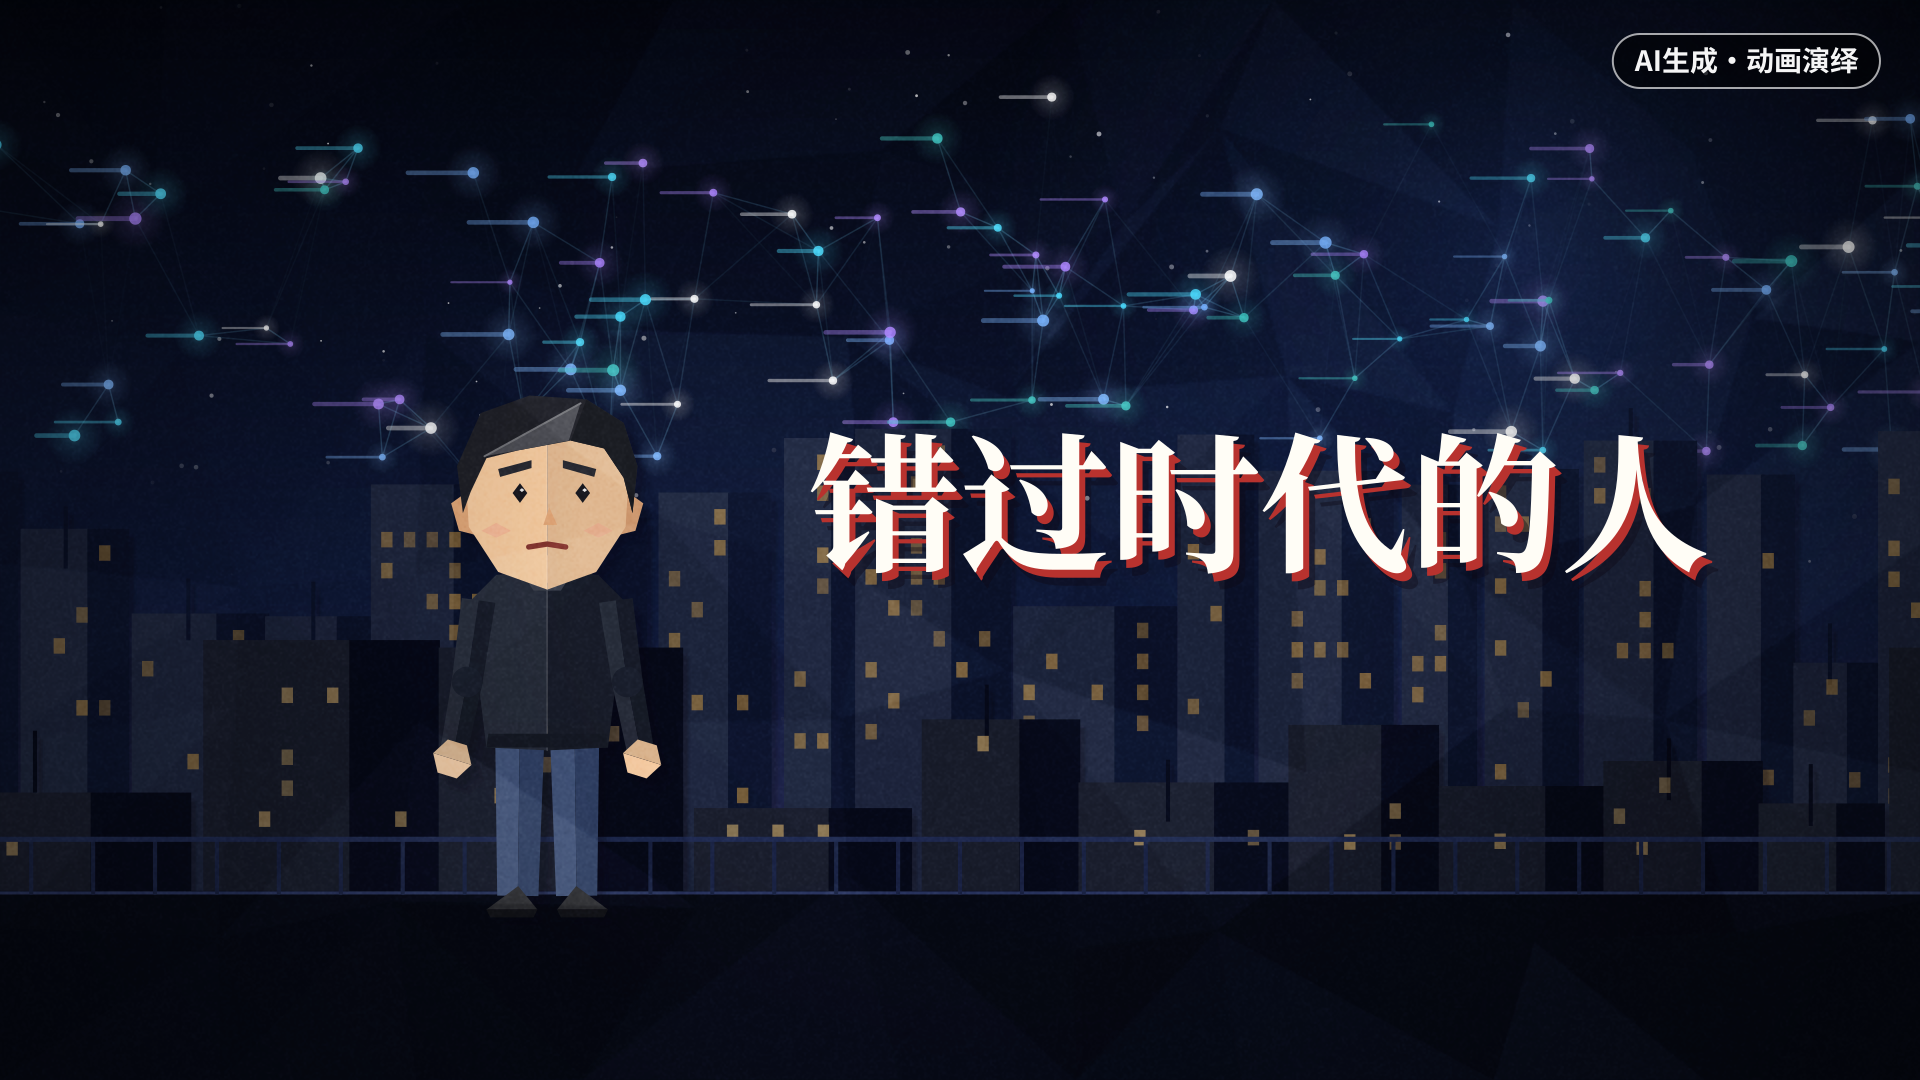
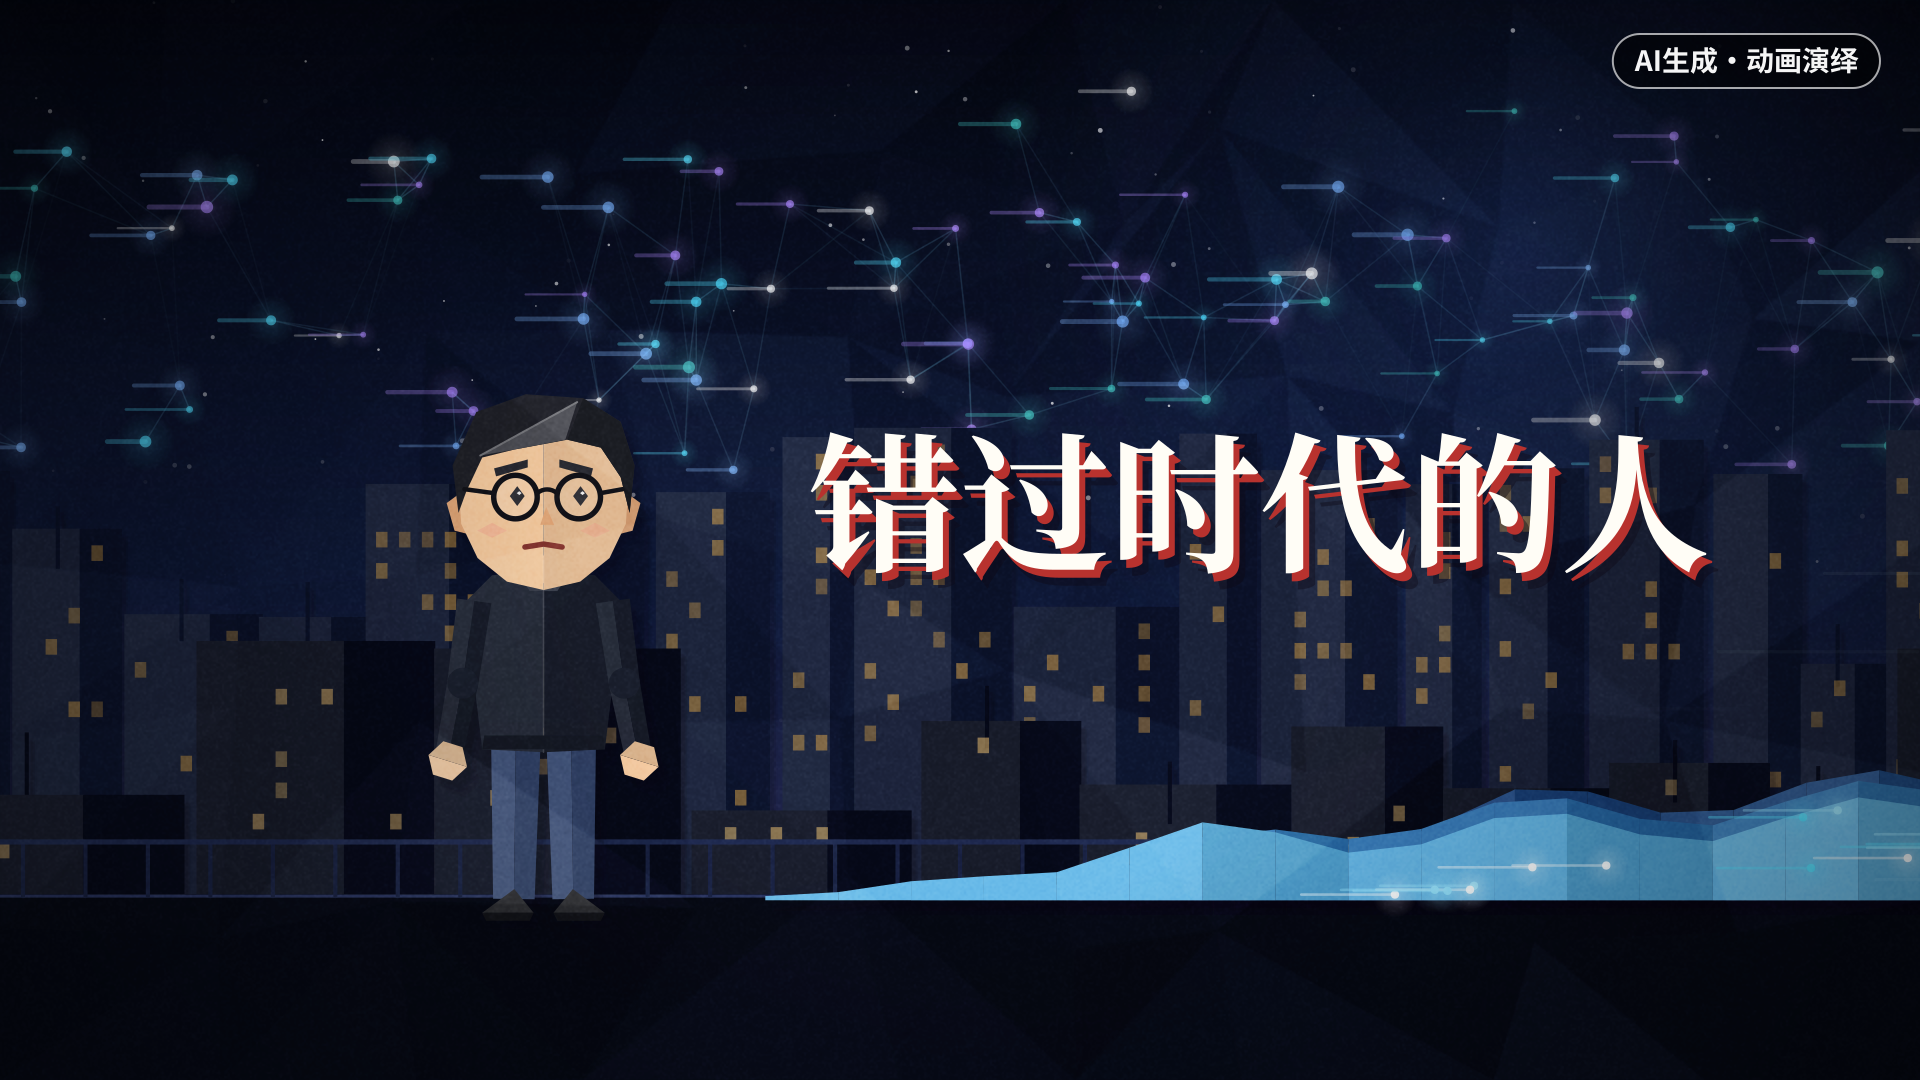
v6: taper the hook wave tail, update README and cover for the new character

diff --git a/video-leijun/scenes_a.py b/video-leijun/scenes_a.py
@@ -180,7 +180,7 @@ def _paper_wave(ctx, front, length, base, t):
             ys = []
             for x in xs:
                 u = clamp((x - (f0 - length)) / length)
-                h = 380 * hk * (0.22 + 0.78 * u ** 2.2) + 18 * math.sin(x * 0.02 + t * 6)
+                h = (380 * hk * (0.22 + 0.78 * u ** 2.2) + 18 * math.sin(x * 0.02 + t * 6)) * smooth(u / 0.18)
                 ys.append(base - h)
             for i in range(len(xs) - 1):
                 up = ys[i + 1] < ys[i]
@@ -207,7 +207,7 @@ def _paper_wave(ctx, front, length, base, t):
     for _ in range(60):
         u = rnd.random()
         x = front - u * length * 0.9
-        y = base - 380 * (0.22 + 0.78 * (1 - u) ** 2.2) * rnd.uniform(0.25, 0.9)
+        y = base - 380 * (0.22 + 0.78 * (1 - u) ** 2.2) * smooth((1 - u) / 0.18) * rnd.uniform(0.25, 0.9)
         c = rnd.choice(["#FFFFFF", "#9EE7FF", "#53E0FF"])
         glow(ctx, x, y, 22, c, 0.35)
         line(ctx, x - 90, y, x, y, c, 2.5, 0.45)

diff --git a/video-leijun/README.md b/video-leijun/README.md
@@ -1,13 +1,16 @@
 # 雷军 · 科普号单集（折纸风动画演绎）
 
-依据《雷军-创意脚本-定稿-2026-10-16.md》用纯代码渲染的动画短片工程，可随时重渲。
+依据《雷军-创意脚本-定稿-2026-10-16.md》用纯代码渲染的动画短片工程，可随时重渲。当前版本按
+`docs/雷军-Cursor改片指令-v6-2026-10-16.md`（上屏文字为文末「定稿剧本 v5」）修改。
 
-- 规格：1920×1080，16:9，30fps，H.264（High / yuv420p）+ AAC，时长 150.0 秒，无配音
+- 规格：1920×1080，16:9，30fps，H.264（High / yuv420p）+ AAC 48 kHz，时长 180.0 秒，无配音
+- 响度：整体 -14 LUFS（EBU R128），真峰值低于 -1 dBTP
 - 风格：折纸 / 纸艺。画面带折痕分面、纸纤维纹理、层叠纸片投影；字幕印在折纸丝带上，大标题用层叠剪纸字
-- 人物：风格化的折纸角色（短发侧分、圆脸、笑容），不是写实真人
-- 气泡台词只有「把 WPS 进行到底」「愿意押上全部声誉」两句
+- 人物：风格化的折纸角色（短发侧分、圆脸、黑框圆眼镜），不是写实真人
+- 气泡台词只有「把 WPS 进行到底」「愿意押上全部声誉」两句，各停留 3 秒以上
+- 字卡一张一张出：上一张完全消失后才出下一张，整行同时显现，不会残留单字；底部字幕条离画面底边 76px
 - 每一帧右上角都有「AI生成·动画演绎」角标
-- 不用小米 LOGO、发布会画面或原声；画面里的软件盒、手机、汽车都是通用造型，没有品牌标识
+- 不用小米 LOGO、发布会画面或原声；画面里的软件盒、手机、汽车、锣都是通用造型，没有品牌标识
 - 音乐和音效全部由 `audio.py` 用程序合成（不含任何采样或现成曲目），属于原创，可商用
 - 字体：Noto Serif CJK SC / Noto Sans CJK SC（SIL OFL 许可，可商用）
 
@@ -15,12 +18,14 @@
 
 | 文件 | 作用 |
 |---|---|
-| `timeline.py` | 分镜表：上屏文字（与定稿逐字一致）、场景、转场；按字数自动算时长（约 3～4.5 字/秒），对齐 96 BPM 节拍网格 |
-| `scenes_a.py` / `scenes_b.py` | 各镜头画面（第 1～6 段 / 第 7～12 段） |
+| `timeline.py` | 字卡表 `CARDS`（与 v5 逐字一致）和镜头表 `SHOTS`；按字数自动算时长，对齐 96 BPM 节拍网格 |
+| `scenes_a.py` / `scenes_b.py` | 原有镜头画面 |
+| `scenes_c.py` | v6 新增镜头：时间回卷变年轻、关门的小摊、独坐、推门回金山+翻日历、窗外浪潮、卓越网、深夜想问题、顺势而为、走出大楼、上市敲锣、黑场 |
 | `character.py` | 折纸角色骨架：姿势、表情、不同年龄段服装、走路、背影 |
 | `gfx.py` | 绘图工具：缓动、折纸分面、纸纹理、纸片投影等 |
 | `audio.py` | 程序合成配乐 + 音效，输出 `build/audio.wav` |
 | `render.py` | 合成帧、转场、字幕、角标，多进程编码，最后与音频封装成 mp4 |
+| `check.py` | 自检：字卡与 v5 逐字比对、同一时间只有一张字卡、换卡前无残字（像素比对）、气泡和「顺势而为」时长、黑场、底边距离、成片规格与响度 |
 
 ## 环境
 
@@ -35,15 +40,15 @@ pip install -r requirements.txt
 python3 render.py                 # 成片 -> output/雷军-科普号单集-动画演绎.mp4
 python3 render.py --jobs 4        # 指定并行进程数
 python3 render.py --still 33.5    # 导出单帧预览 -> build/still_33.50.png
-python3 render.py --sheet         # 每个镜头的缩略图拼板 -> build/sheet_*.png
+python3 render.py --sheet         # 每张字卡两帧的缩略图拼板 -> build/sheet_*.png
 python3 render.py --cover         # 封面「错过时代的人」-> output/封面-错过时代的人.png
-python3 audio.py                  # 只重做音频
+python3 check.py --video          # 渲完后自检（含成片规格与响度）
 ```
 
-4 核机器上整片渲染约 7～8 分钟。
+4 核机器上整片渲染约 12 分钟。
 
 ## 修改
 
-- **文字或节奏**：编辑 `timeline.py` 的 `SEGMENTS`。`hl` 是需要高亮的词，`style="big"` 是居中大标题，`trans` 是进入该镜头的转场（fade / flash / wipe / push / iris / dip / none）。
-- **大标题位置**：改 `render.py` 里的 `BIG_POS`。
-- **画面**：每个镜头对应一个 `@scene("名字")` 函数。参数 `S.t` 是镜头内的时间，`S.T` 是镜头总时长。
+- **文字或节奏**：编辑 `timeline.py` 的 `SEGMENTS`。`hl` 是高亮词，`grow` 是放大词，`style="big"` 是居中大标题，`trans` 是进入该镜头的转场（fade / flash / wipe / push / iris / dip / cut / none），`scenes=[...]` 让一张字卡跨多个镜头，`min_beats` 设最短停留拍数。
+- **大标题位置 / 字号**：改 `render.py` 里的 `BIG_POS` / `BIG_SIZE`。
+- **画面**：每个镜头对应一个 `@scene("名字")` 函数。参数 `S.t` 是镜头内的时间，`S.T` 是镜头总时长，`S.items` 是镜头内各字卡的起止时间。
